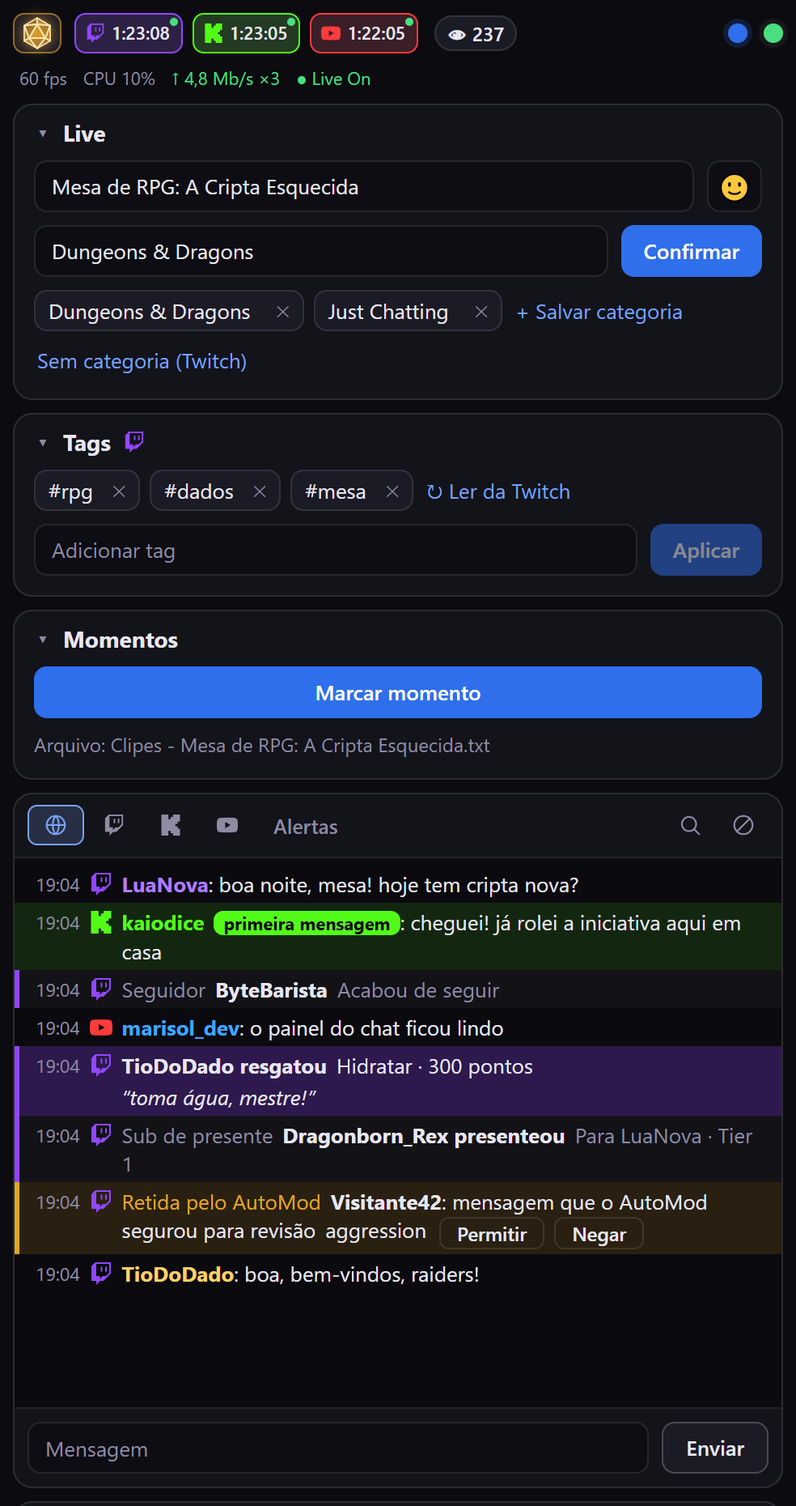
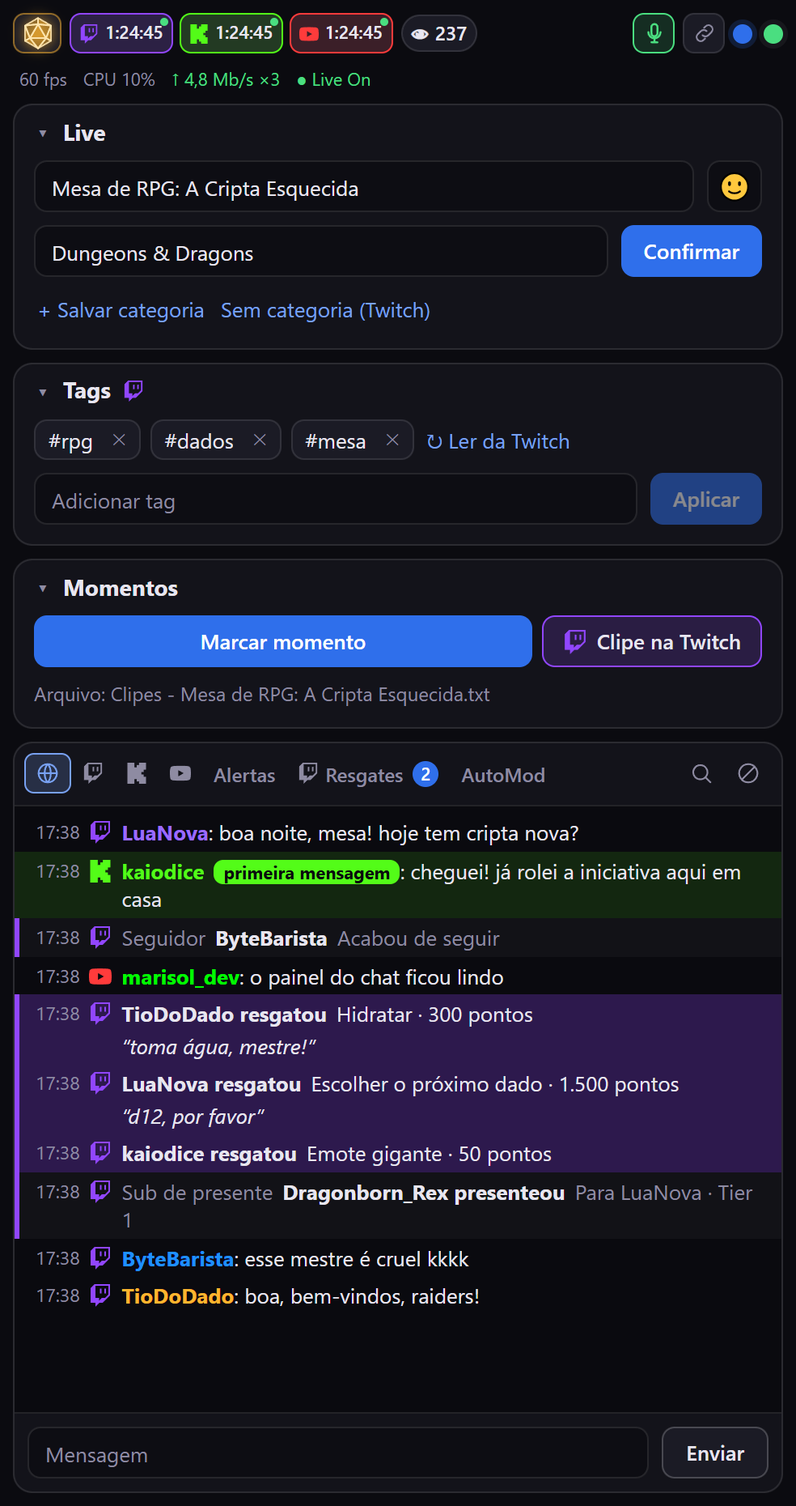
README completo com imagens novas e o Verificar configuração em uma linha por item
- README: predefinições, modos do chat, clipe, microfone e links na barra de cima, aba Resgates, responder e ver perfil, motivo do ban,
  lista de comandos, seções recolhíveis e Verificar configuração; tabela de plataformas, limites, estrutura e "como estender" atualizados.
- Imagens novas em docs/imagens: comandos, resgates, perfil, banir, links, verificar e predefinicoes; dock, configuracoes e
  configuracoes-extras refeitas com a tela atual (geradas com um Streamer.bot e um OBS de teste).
- Verificar configuração: o símbolo (✓, !, ✕) e o texto de cada item ficam na mesma linha (antes o símbolo ficava sozinho numa linha).

diff --git a/src/Configuracoes.jsx b/src/Configuracoes.jsx
@@ -182,7 +182,7 @@ export default function Configuracoes({ conectado, recusa, ativas, onVoltar }) {
           <ul className="verificacao" id="verificacao-lista">
             {verificacao.map(l => (
               <li key={l.id} className={`nivel-${l.nivel}`}>
-                <b>{placar[l.nivel]}</b> {l.texto}
+                <span><b>{placar[l.nivel]}</b> {l.texto}</span>
                 {l.ajuda && <span className="verificacao-ajuda">{l.ajuda}</span>}
               </li>
             ))}

diff --git a/README.md b/README.md
@@ -56,8 +56,11 @@ no seu computador: não há servidor, conta, cadastro nem chave de API.
   (símbolo da Twitch), um clique também cria um clipe da live na Twitch e mostra o link.
 - **Predefinições de live** (desligadas por padrão): guarde um modo (título, categoria, tags da Twitch e, se quiser, a categoria do YouTube) e troque de live
   com um clique, sem redigitar tudo.
-- **Modos do chat da Twitch** (desligados por padrão): só emotes, modo lento, só seguidores e só inscritos num toque, sem ir ao site da Twitch. O Streamer.bot
-  só tem esses controles na Twitch; a Kick e o YouTube não têm.
+- **Modos do chat da Twitch** (desligados por padrão): só emotes, modo lento, só seguidores e só inscritos num toque, sem ir ao site da Twitch. Também saem por
+  comando no campo do chat (`/emotes`, `/subs`, `/lento 30`, `/seguidores 30` e `/escudo`, para o modo escudo). O Streamer.bot só tem esses controles na Twitch; a Kick
+  e o YouTube não têm.
+- **Comandos com lista:** ao digitar `/` no campo do chat aparece a lista dos comandos que valem para o chat aberto, com o que cada um faz.
+- **Motivo do ban e do silêncio:** a confirmação do Banir tem um campo para o motivo (ou `/ban nome motivo`); sem motivo, vai "Violar as Regras do Chat".
 - **Verificar configuração:** um botão nas configurações que confere tudo o que você ligou (ações do Streamer.bot com o nome exato e a versão do código delas, plataformas,
   OBS e microfone) e mostra ✓, ! ou ✕ com o que fazer.
 - **Aba Resgates** (desligada por padrão): a fila de resgates de pontos da Twitch, ao lado de Alertas, com **Cumprir** e **Reembolsar** e o número dos pendentes. Só entram os
@@ -133,10 +136,27 @@ Da esquerda para a direita:
   WebSocket dele conectado): quando ele para de transmitir, os três tempos voltam a 00:00 e os espectadores a 0 na hora, sem esperar o aviso de
   cada plataforma (que a Kick e o YouTube nem sempre mandam). Sem a leitura do OBS, valem os avisos das plataformas.
 - Logo abaixo, a **linha de saúde do OBS** (veja [Saúde do OBS e Multistream](#saúde-do-obs-e-multistream)).
+- O **microfone** (opcional): verde com o microfone aberto, vermelho no mudo; um clique coloca ou tira do mudo a entrada escolhida nas configurações. Com o
+  aviso ligado, ele pisca e mostra "Você está no mudo!" quando você fala com o microfone no mudo.
+- O **elo de corrente** (opcional) abre os **links das suas redes**: um clique abre o endereço no navegador e o botão direito copia o link.
 - A **bolinha azul** abre a lista de painéis, para mostrar ou esconder cada um (a escolha fica salva).
 - A **bolinha de estado**: **verde** (Streamer.bot e todas as plataformas ativas conectados), **amarela** (falta alguma plataforma
   ativa) ou **vermelha** (sem Streamer.bot, ou ele recusou a conexão). Passe o mouse para ver o motivo; clique para abrir as
   configurações.
+
+<p align="center">
+  <img src="docs/imagens/links.png" alt="A janelinha dos links das redes aberta sobre o dock, com o microfone e o elo de corrente no alto" width="380">
+</p>
+
+### Predefinições de live
+
+Um painel (desligado por padrão) para trocar de "modo" de live num clique. **Guardar** salva o título e a categoria do painel Live e as tags que a Twitch tem agora
+com o nome que você der; clicar numa predefinição aplica tudo nas plataformas ativas, na hora. Usar o mesmo nome atualiza a predefinição. Cada uma pode fixar a
+categoria do YouTube (senão valem as regras das configurações).
+
+<p align="center">
+  <img src="docs/imagens/predefinicoes.png" alt="Painel de predefinições com três modos de live guardados" width="380">
+</p>
 
 ### Live: título e categoria
 
@@ -195,6 +215,12 @@ Marca pontos da live para você achar depois (para clipes, cortes, capítulos).
   vazio, vale o `Clipe N` de sempre.
 - A numeração e a lista da sessão ficam lembradas por arquivo. O arquivo vai para a pasta `Clipes` ao lado do dock, ou para a
   pasta que você escolher (um caminho completo de uma unidade local, como `C:\Clipes`).
+- **Clipe na Twitch** (opcional, com a ação `Painel: Controles`): cria um clipe da live na Twitch e mostra o link, com **Copiar link**.
+
+### Modos do chat (Twitch)
+
+Um painel (desligado por padrão) com **só emotes**, **modo lento**, **só seguidores** e **só inscritos**, cada um num botão, mais o **modo escudo** por comando. Os
+mesmos modos saem pelo campo do chat (veja [Chat](#chat)). Como o Streamer.bot não avisa o modo atual, o painel mostra o que o dock enviou por último.
 
 ### Enquetes e previsões (Twitch)
 
@@ -214,8 +240,8 @@ Duas coisas separadas, cada uma com o seu interruptor em **Configurações**:
 - **Saúde do OBS** (vem ligada; só lê o OBS): uma linha pequena logo abaixo da barra com **fps**, **CPU** e **upload** e, no fim, o
   estado da live: **Live On** (no ar e sem problemas), **Live Off** (nada no ar) ou, em português simples, o que está acontecendo (a
   internet oscilando, o PC com dificuldade de codificar o vídeo, o OBS travando). O **Live On/Off** fica sempre no mesmo lugar e o aviso aparece
-  **ao lado dele**, em texto curto e numa linha só: a linha nunca cresce, então o chat e os painéis de baixo não se mexem quando a live trava
-  (antes o aviso quebrava em várias linhas e empurrava tudo, parecendo uma mensagem nova). Se faltar espaço o texto corta com "…"; passe o mouse
+  **ao lado dele**, em texto curto e numa linha só: a linha nunca cresce, então o chat e os painéis de baixo não se mexem quando a live trava.
+  Se faltar espaço o texto corta com "…"; passe o mouse
   sobre ele para ver o aviso completo e o que ele quer dizer.
 - **Painel de Multistream** (vem **desligado**, porque os botões mexem na live): **Iniciar lives** e **Parar lives**, com confirmação, que
   fazem o mesmo que Iniciar e Parar transmissão do OBS. Os destinos do plugin de multistream seguem junto quando ele está com
@@ -228,7 +254,8 @@ plugin. A forma recomendada de montar: a **Twitch** como transmissão do própri
 
 ### Chat
 
-Mensagens e alertas das três plataformas num feed só, com abas **Tudo**, **Twitch**, **Kick**, **YouTube** e **Alertas**.
+Mensagens e alertas das três plataformas num feed só, com abas **Tudo**, **Twitch**, **Kick**, **YouTube** e **Alertas** e, se você ligar nas configurações,
+**Resgates** e **AutoMod**. Se você estava no fim da lista, ela continua no fim quando a janela do dock muda de tamanho.
 
 <p align="center">
   <img src="docs/imagens/chat.png" alt="O chat unificado com mensagens e alertas" width="340">
@@ -254,19 +281,50 @@ Mensagens e alertas das três plataformas num feed só, com abas **Tudo**, **Twi
 <p align="center">
   <img src="docs/imagens/aviso-anuncio.png" alt="O aviso de anúncio no alto do dock, com a contagem e o botão Adiar 5 min" width="340">
 </p>
+
 - **AutoMod da Twitch:** a mensagem que o AutoMod segurou para revisão aparece no feed (abas Tudo, Alertas e Twitch) numa faixa âmbar,
-  com o autor, o texto, o motivo e os botões **Permitir** e **Negar**. Depois que alguém decide, a faixa mostra o resultado. Pede o
-  código novo da ação `Painel: Chat`. Kick e YouTube não têm isso no Streamer.bot.
+  com o autor, o texto, o motivo e os botões **Permitir** e **Negar**. Depois que alguém decide, a faixa mostra o resultado. Se o aviso do
+  Streamer.bot vier sem o código da mensagem, ela aparece assim mesmo, sem os botões. A aba **AutoMod** (opcional) mostra só essas mensagens.
+  Pede o código novo da ação `Painel: Chat`. Kick e YouTube não têm isso no Streamer.bot.
 - **Sub de presente:** o alerta diz quem presenteou e **para quem foi** (em presente em massa, a quantidade e os primeiros nomes).
-- **Moderação:** passando o mouse numa mensagem aparecem **Banir** (com confirmação), **Silenciar 5 min** e **Apagar** (não existe
-  no YouTube), mais o **⋮** com todas as opções. O botão direito abre o mesmo menu: Mencionar, Copiar mensagem, Apagar,
-  Silenciar 1 ou 10 minutos, Banir, Fixar e Ver só este usuário.
+- **Moderação:** passando o mouse numa mensagem aparecem **Banir** (com confirmação), **Silenciar 5 min**, **Apagar** (não existe
+  no YouTube) e **Responder**, mais o **⋮** com todas as opções. O botão direito abre o mesmo menu: Mencionar, Responder, Ver perfil, Copiar mensagem,
+  Apagar, Silenciar 1 ou 10 minutos, Banir, Fixar e Ver só este usuário. A confirmação do Banir tem um campo para o **motivo**; vazio, vai
+  "Violar as Regras do Chat".
+
+<p align="center">
+  <img src="docs/imagens/banir.png" alt="A confirmação do Banir com o campo do motivo preenchido" width="340">
+</p>
+
+- **Responder e ver perfil:** responda a uma mensagem nas três plataformas (botão ↪ da linha, menu da mensagem ou cartão do perfil). Na Twitch e na Kick a
+  resposta fica ligada à mensagem (com a ação `Painel: Controles`); no YouTube, que não tem resposta, sai com @nome. **Ver perfil** abre um cartão com
+  foto, selos, mensagens e punições da sessão e, na Twitch, a idade da conta, se segue e se é sub, mod ou VIP, com **Copiar link do perfil** (o dock nunca
+  abre o navegador sozinho).
+
+<p align="center">
+  <img src="docs/imagens/perfil.png" alt="O cartão do perfil de uma pessoa da Twitch, com selos, idade da conta e os botões Responder, Ver só este usuário e Copiar link" width="340">
+</p>
+
+- **Aba Resgates** (opcional, só Twitch): a fila dos resgates de pontos que chegaram com o dock aberto, com **Cumprir** e **Reembolsar** e o número dos
+  pendentes. **Limpar tudo** (ou `/limparresgates`) esvazia a lista, inclusive os pendentes (com confirmação; na Twitch eles continuam na fila). A Twitch só
+  deixa resolver por aqui os resgates das recompensas criadas pelo Streamer.bot (veja [Limites conhecidos](#limites-conhecidos)).
+
+<p align="center">
+  <img src="docs/imagens/resgates.png" alt="A aba Resgates com um resgate cumprido e outro pendente, com os botões Cumprir e Reembolsar" width="340">
+</p>
+
 - **Enviar mensagens:** a caixa de baixo envia para as plataformas ligadas (ou só para a da aba aberta). Aceita comandos:
-  `/ban nome`, `/timeout nome segundos` (10 min se não disser o tempo), `/limpar` (limpa o chat da Twitch) e `/limpardock` (esvazia só a lista de
-  mensagens do LiveHelm; não apaga nada nas plataformas). Os **modos da Twitch** também saem por comando (precisam da ação `Painel: Controles`): `/emotes`,
-  `/subs`, `/lento 30`, `/seguidores 30` e `/escudo`, com `on` ou `off` para ligar ou desligar (sem nada, alterna). A Kick e o YouTube não têm esses controles no Streamer.bot.
-  Ao digitar `/`, uma lista mostra os comandos que valem para o chat aberto (só os da Twitch aparecem na aba da Twitch, por exemplo): setas escolhem, **Tab** ou **Enter**
-  completam, **Esc** fecha. A aba **Resgates** tem o botão **Limpar tudo** (e o comando `/limparresgates`): esvazia a lista, inclusive os pendentes (com confirmação; na Twitch eles continuam na fila).
+  `/ban nome [motivo]`, `/timeout nome segundos [motivo]` (10 min se não disser o tempo), `/limpar` (limpa o chat da Twitch), `/limparresgates` e `/limpardock`
+  (esvazia só a lista de mensagens do LiveHelm; não apaga nada nas plataformas). Os **modos da Twitch** também saem por comando (precisam da ação
+  `Painel: Controles`): `/emotes`, `/subs`, `/lento 30`, `/seguidores 30` e `/escudo`, com `on` ou `off` para ligar ou desligar (sem nada, alterna). A Kick e o
+  YouTube não têm esses controles no Streamer.bot.
+- **Lista de comandos:** ao digitar `/`, uma lista mostra os comandos que valem para o chat aberto (só os da Twitch aparecem na aba da Twitch, por exemplo):
+  setas escolhem, **Tab** ou **Enter** completam, **Esc** fecha.
+
+<p align="center">
+  <img src="docs/imagens/comandos.png" alt="A lista de comandos aberta sobre o campo do chat depois de digitar uma barra" width="340">
+</p>
+
 - **Texto de resgate sem repetir:** a mensagem em destaque (e a recompensa que pede texto) aparece só como resgate, com o texto; a mensagem igual do
   chat, que chega junto, não entra de novo.
 - **Busca** (lupa ou `Ctrl+F`): filtra por nome ou texto, sem diferenciar maiúsculas nem acentos. **Ver só este usuário** mostra só as
@@ -277,20 +335,32 @@ Mensagens e alertas das três plataformas num feed só, com abas **Tudo**, **Twi
 
 ### Configurações e tema
 
-Clique na bolinha de estado.
+Clique na bolinha de estado. **Toda seção recolhe** (clique no título); **Abrir tudo** e **Recolher tudo** ficam no alto. Os recursos opcionais vêm
+desligados e as opções de cada um só aparecem depois de ligar o interruptor.
 
 <p align="center">
-  <img src="docs/imagens/configuracoes.png" alt="Tela de configurações do LiveHelm" width="340">
+  <img src="docs/imagens/configuracoes.png" alt="Tela de configurações com todas as seções recolhidas" width="340">
+  <img src="docs/imagens/verificar.png" alt="O resultado do Verificar configuração, com tudo certo" width="340">
 </p>
 
+- **Verificar configuração** (botão no alto): confere tudo o que você ligou (as ações do Streamer.bot com o nome exato e a versão do código delas, as
+  plataformas conectadas, o OBS e o microfone) e mostra ✓, ! ou ✕ com o que fazer em cada caso.
 - **Aparência:** 7 cores de destaque e 5 fundos (Grafite, Preto, Azul-noite, Vinho e Floresta). A mudança é na hora.
 - **Streamer.bot:** endereço e senha do servidor WebSocket, com **Salvar e reconectar**.
 - **OBS:** endereço e senha do servidor WebSocket do OBS, com **Salvar e testar**, que mostra o tempo atual da live.
 - **Marcação de momentos:** título de clipe e pasta dos arquivos.
-- **Alertas no chat:** uma caixa por tipo de alerta (seguidor, sub, Bits, raid, resgate de pontos, anúncio, banimento...) para
+- **Alertas no chat:** uma caixa por tipo de alerta (seguidor, sub, Bits, raid, resgate de pontos, doação do LivePix, anúncio, banimento...) para
   decidir se ele aparece na aba **Tudo** e nas abas de plataforma. A aba **Alertas** mostra todos, sempre. As escolhas valem na
   hora, e **Voltar ao padrão** desfaz tudo.
-- **YouTube:** a categoria da transmissão que vai junto do título (padrão Gaming; vazio não mexe nela).
+- **Abas do chat:** liga as abas **Resgates** e **AutoMod**.
+- **YouTube:** as regras que escolhem a categoria do YouTube conforme a live (palavras de um lado, categoria escolhida numa lista do outro; qualquer jogo
+  vai para Gaming) e o interruptor de **tags e descrição do YouTube** no painel Tags.
+- **Predefinições de live**, **Modos do chat (Twitch)** e **Clipe da Twitch:** um interruptor para cada painel ou botão; os modos guardam os segundos do
+  modo lento e os minutos do só seguidores, e o clipe, a duração.
+- **Mudo do microfone:** liga o botão do microfone, escolhe a entrada do OBS (**Listar as entradas do OBS** ajuda) e o aviso de voz no mudo, com o botão
+  **Testar o aviso**, que mostra até onde chega a sua voz.
+- **Links das redes:** liga o botão e tem um campo para o endereço de cada rede (Twitch, YouTube, Kick, TikTok, Instagram, Discord, X, GitHub, LivePix e
+  um site). Pode digitar sem `https://`; um endereço que não serve fica com um aviso e não aparece.
 - **Saúde do OBS** e **Painel de Multistream:** um interruptor para cada um (a saúde vem ligada e o multistream, desligado). O dock também
   avisa aqui quando o seu canal da Twitch ainda não é afiliado nem parceiro: sem isso a Twitch não tem pontos do canal, e por isso nem
   resgates nem alertas deles.
@@ -299,7 +369,7 @@ Clique na bolinha de estado.
 
 <p align="center">
   <img src="docs/imagens/configuracoes-alertas.png" alt="A seção Alertas no chat, nas configurações" width="340">
-  <img src="docs/imagens/configuracoes-extras.png" alt="As seções YouTube, Saúde do OBS, Painel de Multistream e Aviso de anúncio" width="340">
+  <img src="docs/imagens/configuracoes-extras.png" alt="As seções YouTube, com as regras de categoria, e Mudo do microfone abertas" width="340">
 </p>
 
 O dock é pensado para ficar **estreito**: ele aguenta ser a coluna ao lado do preview do OBS, com o chat ocupando o que sobrar.
@@ -313,15 +383,22 @@ O dock é pensado para ficar **estreito**: ele aguenta ser a coluna ao lado do p
 | Título da live | ✓ | ✓ | ✓ |
 | Categoria (o jogo) | ✓ | ✓ | — (só as fixas, como Gaming) |
 | Ler o título e a categoria atuais | ✓ | — | só o título |
-| Tags (ler e editar) | ✓ | — | — |
+| Tags (ler e editar) | ✓ | — | ✓ (opcional) |
 | Apagar mensagem | ✓ | ✓ | — |
 | Silenciar e banir | ✓ | ✓ | ✓ |
 | Desfazer silêncio e banimento | ✓ | ✓ | — |
 | Limpar o chat (`/limpar`) | ✓ | — | — |
+| Responder a uma mensagem | ✓ | ✓ | com @nome |
+| Ver perfil (dados do chat) | ✓ | ✓ | ✓ |
+| Perfil com idade da conta, seguidor, sub, mod e VIP | ✓ | — | — |
+| Modos do chat e modo escudo | ✓ | — | — |
+| Criar clipe | ✓ | — | — |
 | Criar e controlar enquetes e previsões | ✓ | — | — |
 | Ver resgates de pontos no chat | ✓ | ✓ | — |
+| Cumprir e reembolsar resgates (aba Resgates) | ✓ | — | — |
 | Aviso de anúncio, com adiamento | ✓ | — | — |
 | Ver e liberar mensagens retidas pelo AutoMod | ✓ | — | — |
+| Descrição da live | — | — | ✓ (opcional) |
 | Tempo de live e espectadores | ✓ | ✓ | ✓ |
 
 Os "—" são limites das plataformas ou do Streamer.bot 1.0.7, não do LiveHelm: onde a plataforma ou o Streamer.bot não oferece o
@@ -330,7 +407,8 @@ recurso, o dock deixa o botão desligado ou ignora a plataforma.
 ## Configuração
 
 - **Pela tela de configurações** (bolinha de estado): endereço e senha do Streamer.bot e do OBS, tema, momentos, os alertas que
-  aparecem no chat e o aviso de anúncio. Tudo fica guardado no armazenamento do navegador do dock, dentro do OBS.
+  aparecem no chat, as regras do YouTube, os recursos opcionais e o aviso de anúncio (veja [Configurações e tema](#configurações-e-tema)). Tudo fica
+  guardado no armazenamento do navegador do dock, dentro do OBS.
 - **Valores de partida:** [`src/config.js`](src/config.js) tem o endereço e a senha padrão do Streamer.bot (`ws://127.0.0.1:8080`) e do
   OBS (`ws://127.0.0.1:4455`). As senhas vêm **vazias**. Se você gerar o seu próprio build, não coloque senhas reais no arquivo
   se for publicá-lo em algum lugar.
@@ -365,12 +443,21 @@ recurso, o dock deixa o botão desligado ou ignora a plataforma.
   gerenciar anúncios na conta da Twitch.
 - **YouTube:** o Streamer.bot só controla uma transmissão que ele está monitorando (a live precisa estar criada e o YouTube conectado
   nele). Sem o código novo de `Painel: YouTube`, o dock não consegue saber se o título mudou e o aviso diz isso. O título tem as
-  regras do YouTube (sem `<` e `>`, até 100 caracteres) e a categoria é uma da lista fixa dele.
-- **AutoMod e categoria vazia:** o Permitir e Negar do AutoMod segue a documentação do Streamer.bot (os campos exatos do evento ainda
-  não foram vistos com dados reais), (o **Sem categoria** da Twitch já foi testado e funciona).
+  regras do YouTube (sem `<` e `>`, até 100 caracteres) e a categoria é uma da lista fixa dele. Depois que a live termina (vira vídeo), o dock não mexe
+  mais nela: o pedido fica guardado para a próxima live.
+- **Categoria do YouTube:** o Streamer.bot já recusou trocar a categoria nos testes, até para "Gaming". O código tenta outros nomes e, por fim, o método
+  que manda título, descrição e categoria juntos, mas esse caminho ainda não foi testado numa live real; se a categoria continuar recusada, troque no
+  YouTube Studio.
+- **AutoMod:** o Permitir e Negar segue a documentação do Streamer.bot (os campos exatos do evento ainda não foram vistos com dados reais). O
+  **Sem categoria** da Twitch já foi testado e funciona.
+- **Cumprir e reembolsar resgates:** a Twitch só deixa um aplicativo resolver os resgates das recompensas que ele mesmo criou. Uma recompensa criada no
+  painel da Twitch só se cumpre ou reembolsa lá; para resolver pelo LiveHelm, crie a recompensa dentro do Streamer.bot. Limpar a aba Resgates não tira
+  os pendentes da fila da Twitch.
+- **Modos do chat:** o Streamer.bot não avisa o modo atual do chat, então o painel mostra o que o dock enviou por último (um modo trocado pelo site da
+  Twitch não aparece).
 - **Multistream:** não existe iniciar ou parar um destino só; o plugin obs-multi-rtmp não tem API e todos os destinos têm o mesmo nome.
-- O dock não mostra avatares, e emotes de terceiros (7TV, BetterTTV, FrankerFaceZ) não são carregados: só os que a plataforma
-  entrega no evento.
+- O chat não mostra avatares (só o cartão do perfil da Twitch tem a foto), e emotes de terceiros (7TV, BetterTTV, FrankerFaceZ) não são carregados: só os
+  que a plataforma entrega no evento.
 - O instalador automático é só para **Windows** (o Streamer.bot também roda só nele). O dock em si é uma página e funciona em qualquer
   OBS pelo jeito manual.
 - O navegador embutido do OBS pode se comportar diferente do Chrome em detalhes: confira, por exemplo, se **Copiar mensagem**
@@ -404,16 +491,26 @@ src/tagsLista.js         Regras puras da lista de tags e a leitura das respostas
 src/titulos.js           Regras de título e categoria: título do YouTube e outras grafias de categoria (puro; testado)
 src/Emojis.jsx           Seletor de emojis do título (busca, abas, tom de pele); emojiBusca.js, emojiSuporte.js e emojisDados.js
 src/lives.js             Estado das lives (espectadores, início, saúde): puro e testado
-src/obsSaude.js          Leitura contínua do OBS (fps, CPU, rede), iniciar e parar a transmissão
+src/obsSaude.js          Leitura contínua do OBS (fps, CPU, rede, mudo do microfone), iniciar e parar a transmissão; useSaudeDoObs.js a liga no App
 src/SaudeDoObs.jsx       Linha de saúde do OBS; PainelMultistream.jsx tem os botões Iniciar e Parar lives; TempoDeLive.jsx o tempo
 src/Momentos.jsx         Marcação de momentos
 src/pastaClipes.js       Regra da pasta dos clipes (a mesma da ação C#; testada)
 src/Interacoes.jsx       Enquetes e previsões
+src/Predefinicoes.jsx    Predefinições de live; predefinicoes.js tem as regras puras (testado)
+src/ModosDoChat.jsx      Modos do chat da Twitch; comandosDeModo.js lê /emotes, /subs, /lento, /seguidores e /escudo (puro; testado)
 src/ChatPanel.jsx        Feed, abas, menu, moderação, busca e caixa de envio
+src/comandosDoChat.js    A lista dos comandos do campo do chat e onde cada um vale (puro; testado)
+src/FilaDeResgates.jsx   Aba Resgates (Cumprir, Reembolsar, Limpar tudo); resgates.js evita repetir o texto do resgate no chat
+src/PerfilCard.jsx       Cartão do perfil; perfil.js monta os dados e o link do perfil
+src/livepix.js           Alerta das doações do LivePix a partir do aviso da ação LivePix (puro; testado)
 src/alertas.js           Quais alertas entram em cada aba do chat e o catálogo de tipos de alerta (puro; testado)
 src/AvisoAnuncio.jsx     Pop-up do aviso de anúncio da Twitch (contagem, Adiar 5 min, Deixar rodar)
 src/anuncios.js          Regras puras do aviso de anúncio: quando mostrar, adiar, dispensar (testado)
-src/Configuracoes.jsx    Tela de configurações (tema, conexões, momentos, alertas no chat, aviso de anúncio)
+src/BotaoMic.jsx         Botão do microfone no alto; vozNoMudo.js decide o aviso de voz no mudo (puro; testado)
+src/Links.jsx            Botão e janelinha dos links das redes; links.js confere os endereços (puro; testado)
+src/YoutubeInfo.jsx      Tags e descrição do YouTube, dentro do painel Tags
+src/Configuracoes.jsx    Tela de configurações (seções recolhíveis e o Verificar configuração)
+src/verificar.js         Junta os fatos do Verificar configuração; verificacao.js monta as linhas ✓ ! ✕ (puro; testado)
 src/acoes.js             Pedidos de ações ao Streamer.bot (os nomes e argumentos que as ações C# leem)
 src/streamerbot.js       Conexão WebSocket (senha, reconexão) e conversão dos eventos em tipos do dock
 src/obs.js               Tempo da live pelo obs-websocket v5
@@ -436,8 +533,10 @@ docs/INSTRUCOES.md       Passo a passo de instalação e configuração
 - **Novo alerta ou evento:** acrescente o evento em `EVENTOS_ASSINADOS` e a conversão em `ALERTAS` (`src/streamerbot.js`), o rótulo
   em `ROTULO_DO_ALERTA` (`ChatPanel.jsx`) e o tipo em `TIPOS_DE_ALERTA` (`src/alertas.js`), para ele ganhar a caixa em
   **Configurações > Alertas no chat**. Ele só entra na aba **Tudo** por padrão se também estiver em `ALERTAS_NO_CHAT_GERAL`.
-- **Nova opção de configuração:** é uma seção nova em `configuracoes.js` (o padrão vale seção por seção) e um bloco em
-  `Configuracoes.jsx`.
+- **Nova opção de configuração:** é uma seção nova em `configuracoes.js` (o padrão vale seção por seção) e um bloco `<Secao>` em
+  `Configuracoes.jsx`, com o id em `SECOES` (é o que alimenta **Abrir tudo** e **Recolher tudo**). Se o recurso exige uma ação do Streamer.bot, ponha-a em
+  `acoesNecessarias` (`verificacao.js`) para o **Verificar configuração** cobrá-la.
+- **Novo comando do chat:** acrescente-o na lista de `comandosDoChat.js` (com as plataformas onde vale) e trate-o em `enviar` no `ChatPanel.jsx`.
 
 Mais regras para quem mexe no código estão no [`CLAUDE.md`](CLAUDE.md) (que também orienta assistentes de código).
 
